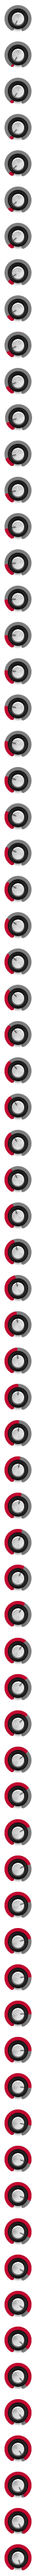
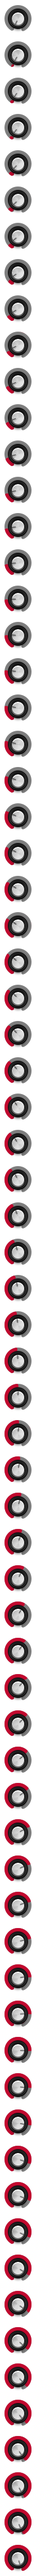
Add Oscillator voices

diff --git a/AlmaVST.cpp b/AlmaVST.cpp
@@ -18,11 +18,16 @@ const double parameterStep = 0.001;
 
 enum EParams
 {
-	// Oscillator Section:
+	// Oscillator 1 Section:
 	mOsc1Waveform = 0,
 	mOsc1PitchMod,
+	mOsc1Voices,
+	// mOsc1Octave,
+	// Oscillator 2 Section: 
 	mOsc2Waveform,
 	mOsc2PitchMod,
+	mOsc2Voices,
+	// mOsc2Octave,
 	//mOscMix,
 	// Filter Section:
 	mFilterMode,
@@ -58,8 +63,12 @@ typedef struct {
 const parameterProperties_struct parameterProperties[kNumParams] = {
 	{ "Osc 1 Waveform", 36, 36, 0, 0, 0 },
 	{ "Osc 1 Pitch Mod", 206, 25, 0.0, 0.0, 1.0 },
+	{ "Osc 1 Voices", 148, 56, 1, 1, 8},
+//	{ "Osc 1 Octave", 100, 100, 0, 0, 0},
 	{ "Osc 2 Waveform", 36, 126, 0, 0, 0 },
 	{ "Osc 2 Pitch Mod", 206, 115, 0.0, 0.0, 1.0 },
+	{ "Osc 2 Voices", 148, 146, 1, 1, 8},
+//	{ "Osc 2 Octave", 200, 200, 0, 0, 0 },
 	//{ "Osc Mix", 130, 61, 0.5, 0.0, 1.0 },
 	{ "Filter Mode", 414, 125, 0, 0, 0 },
 	{ "Filter Cutoff", 487, 115, 0.99, 0.0, 0.99 },
@@ -78,7 +87,7 @@ const parameterProperties_struct parameterProperties[kNumParams] = {
 	{ "Filter Env Attack", 30, 303, 0.01, 0.01, 10.0 },
 	{ "Filter Env Decay", 30, 382, 0.5, 0.01, 15.0 },
 	{ "Filter Env Sustain", 106, 303, 0.1, 0.001, 1.0 },
-	{ "Filter Env Release", 106, 382, 1.0, 0.01, 15.0 }
+	{ "Filter Env Release", 106, 382, 1.0, 0.01, 15.0 },
 };
 
 enum ELayout
@@ -176,10 +185,14 @@ void AlmaVST::CreateGraphics() {
 	IBitmap knobBitmap = pGraphics->LoadIBitmap(KNOB_ID, KNOB_FN, 71);
 	IBitmap knobWhiteBitmap = pGraphics->LoadIBitmap(KNOB_WHITE_ID, KNOB_WHITE_FN, 71);
 
+	// Number knobs
+	IBitmap octaveBitmap = pGraphics->LoadIBitmap(OCTAVES_ID, OCTAVES_FN, 49);
+	IBitmap voicesBitmap = pGraphics->LoadIBitmap(VOICES_ID, VOICES_FN, 8);
 
 	for (int i = 0; i < kNumParams; i++) {
 		const parameterProperties_struct& properties = parameterProperties[i];
 		IControl* control;
+		ISwitchControl* iSwitch;
 		IBitmap* graphic;
 		switch (i) {
 			// Switches:
@@ -187,7 +200,17 @@ void AlmaVST::CreateGraphics() {
 			graphic = &waveformRedBitmap;
 			control = new ISwitchControl(this, properties.x, properties.y, i, graphic);
 			break;
-
+		case mOsc1Voices:
+		case mOsc2Voices:
+			graphic = &voicesBitmap;
+			control = new IKnobMultiControl(this, properties.x, properties.y, i, graphic);
+			break;
+/*		case mOsc1Octave:
+		case mOsc2Octave:
+			graphic = &octaveBitmap;
+			control = new IKnobMultiControl(this, properties.x, properties.y, i, graphic);
+			break;
+*/
 		case mOsc2Waveform:
 		case mLFOWaveform:
 			graphic = &waveformBlueBitmap;
@@ -278,6 +301,12 @@ void AlmaVST::OnParamChange(int paramIdx)
 			break;
 			// Filter Section:
 			*/
+		case mOsc1Voices:
+			changer = bind(&VoiceManager::setOscillatorOneVoiceCount, _1, param->Value());
+			break;
+		case mOsc2Voices:
+			changer = bind(&VoiceManager::setOscillatorTwoVoiceCount, _1, param->Value());
+			break;
 		case mFilterMode:
 			changer = bind(&VoiceManager::setFilterMode, _1, static_cast<Filter::FilterMode>(param->Int()));
 			break;

diff --git a/Voice.h b/Voice.h
@@ -8,8 +8,12 @@
 class Voice {
 public:
 	friend class VoiceManager;
-	Voice()
-		: mNoteNumber(-1),
+
+	// Voice constructor
+	Voice():
+		mOscillatorOneVoiceCount(1),
+		mOscillatorTwoVoiceCount(1),
+		mNoteNumber(-1),
 		mVelocity(0),
 		mFilterEnvelopeAmount(0.0),
 		mFilterLFOAmount(0.0),
@@ -18,29 +22,35 @@ public:
 		mOscillatorMix(0.5),
 		mLFOValue(0.0),
 		isActive(false) {
-		// Set myself free everytime my volume envelope has fully faded out of RELEASE stage:
-		mVolumeEnvelope.finishedEnvelopeCycle.Connect(this, &Voice::setFree);
-	};
+			// Set myself free everytime my volume envelope has fully faded out of RELEASE stage:
+			mVolumeEnvelope.finishedEnvelopeCycle.Connect(this, &Voice::setFree);
+		};
+
+	// Setter functions
+	inline void setOscillatorOneVoiceCount(int amount) { mOscillatorOneVoiceCount = amount; }
+	inline void setOscillatorTwoVoiceCount(int amount) { mOscillatorTwoVoiceCount = amount; }
 	inline void setFilterEnvelopeAmount(double amount) { mFilterEnvelopeAmount = amount; }
 	inline void setFilterLFOAmount(double amount) { mFilterLFOAmount = amount; }
 	inline void setOscillatorOnePitchAmount(double amount) { mOscillatorOnePitchAmount = amount; }
 	inline void setOscillatorTwoPitchAmount(double amount) { mOscillatorTwoPitchAmount = amount; }
 	inline void setOscillatorMix(double mix) { mOscillatorMix = mix; }
 	inline void setLFOValue(double value) { mLFOValue = value; }
-
 	inline void setNoteNumber(int noteNumber) {
 		mNoteNumber = noteNumber;
 		double frequency = 440.0 * pow(2.0, (mNoteNumber - 69.0) / 12.0);
 		mOscillatorOne.setFrequency(frequency);
 		mOscillatorTwo.setFrequency(frequency);
 	}
+
 	double nextSample();
 	void setFree();
 
 	void reset();
 private:
 	PolyBLEPOscillator mOscillatorOne;
+	int mOscillatorOneVoiceCount;
 	PolyBLEPOscillator mOscillatorTwo;
+	int mOscillatorTwoVoiceCount;
 	EnvelopeGenerator mVolumeEnvelope;
 	EnvelopeGenerator mFilterEnvelope;
 	Filter mFilter;

diff --git a/VoiceManager.h b/VoiceManager.h
@@ -2,10 +2,10 @@
 #define __AlmaVST__VoiceManager__
 
 #include "Voice.h"
-// #include <tr1/functional>
 #include <functional>
 
 class VoiceManager {
+
 public:
 	void onNoteOn(int noteNumber, int velocity);
 	void onNoteOff(int noteNumber, int velocity);
@@ -59,6 +59,12 @@ public:
 	}
 	static void setOscillatorMix(Voice& voice, double value) {
 		voice.setOscillatorMix(value);
+	}
+	static void setOscillatorOneVoiceCount(Voice& voice, double voiceCount) {
+		voice.setOscillatorOneVoiceCount(voiceCount);
+	}
+	static void setOscillatorTwoVoiceCount(Voice& voice, double voiceCount) {
+		voice.setOscillatorTwoVoiceCount(voiceCount);
 	}
 	static void setFilterCutoff(Voice& voice, double cutoff) {
 		voice.mFilter.setCutoff(cutoff);

diff --git a/Voice.cpp b/Voice.cpp
@@ -1,10 +1,14 @@
 #include "Voice.h"
 
 double Voice::nextSample() {
+	// Check if voice is active, returns muted output
 	if (!isActive) return 0.0;
 
-	double oscillatorOneOutput = mOscillatorOne.nextSample();
-	double oscillatorTwoOutput = mOscillatorTwo.nextSample();
+
+	// Gets next sample from bouth osc multiplied by the voices
+	double oscillatorOneOutput = mOscillatorOne.nextSample() * mOscillatorOneVoiceCount;
+	double oscillatorTwoOutput = mOscillatorTwo.nextSample() * mOscillatorTwoVoiceCount;
+	// Sums it up
 	double oscillatorSum = ((1 - mOscillatorMix) * oscillatorOneOutput) + (mOscillatorMix * oscillatorTwoOutput);
 
 	double volumeEnvelopeValue = mVolumeEnvelope.nextSample();

diff --git a/resource.h b/resource.h
@@ -67,6 +67,8 @@ instrument determined by PLUG _IS _INST
 #define KNOB_ID				106
 #define KNOB_WHITE_ID		107
 #define FILTERMODE_ID		108
+#define VOICES_ID			109
+#define OCTAVES_ID			110
 
 // Image resource locations for this vst plugin.
 #define BG_FN				"resources/img/bg.png"
@@ -77,6 +79,8 @@ instrument determined by PLUG _IS _INST
 #define KNOB_FN				"resources/img/knobx71.png"
 #define KNOB_WHITE_FN		"resources/img/knobx71_white.png"
 #define FILTERMODE_FN		"resources/img/filtermode.png"
+#define VOICES_FN			"resources/img/voices.png"
+#define OCTAVES_FN			"resources/img/octave.png"
 
 // GUI default dimensions
 #define GUI_WIDTH 800

diff --git a/Oscillator.cpp b/Oscillator.cpp
@@ -1,6 +1,7 @@
 #include "Oscillator.h"
 
-double Oscillator::mSampleRate = 44100.0;
+
+double Oscillator::mSampleRate = 44100.0; // Default, could be set to 48000.0 for better quality
 
 void Oscillator::setMode(OscillatorMode mode) {
 	mOscillatorMode = mode;
